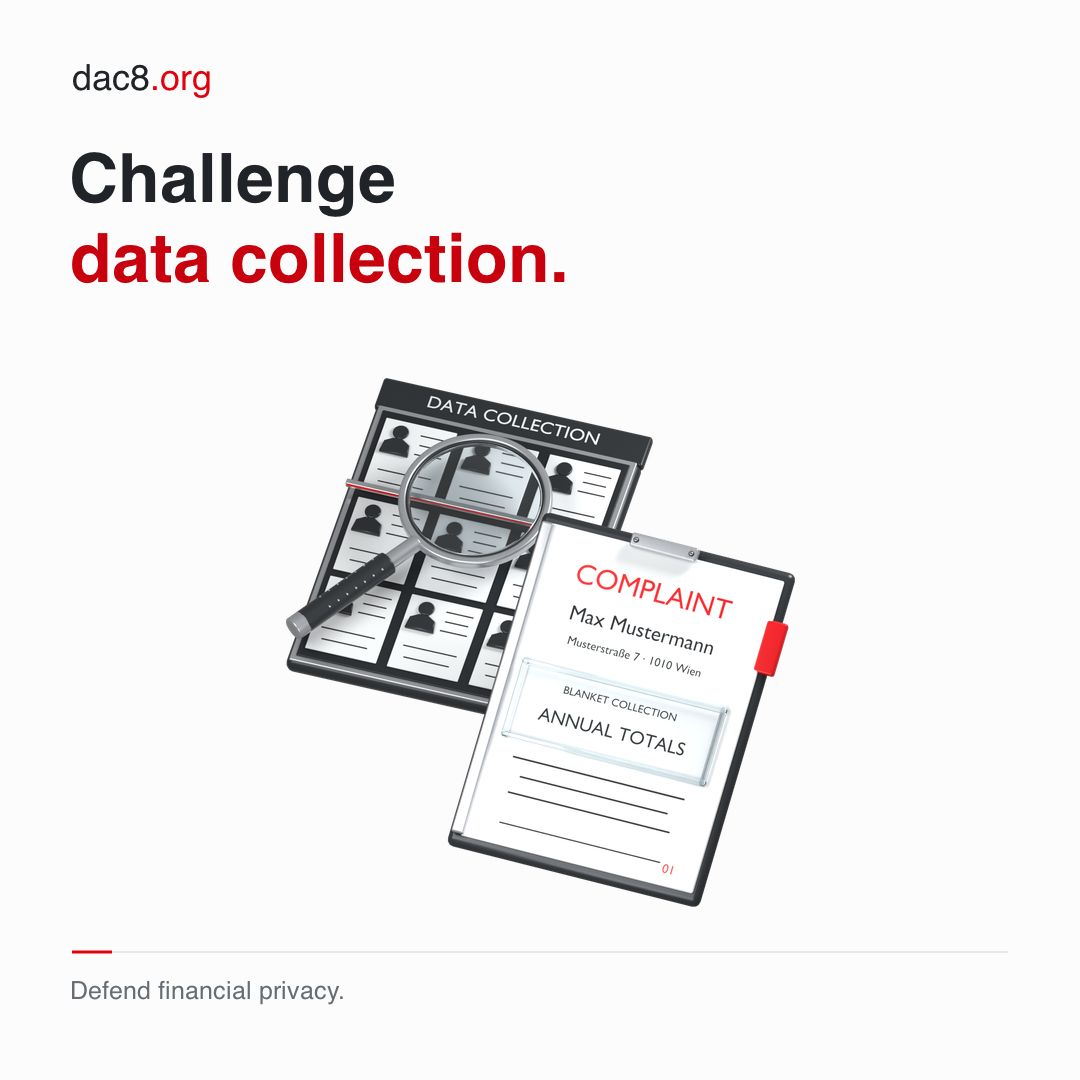
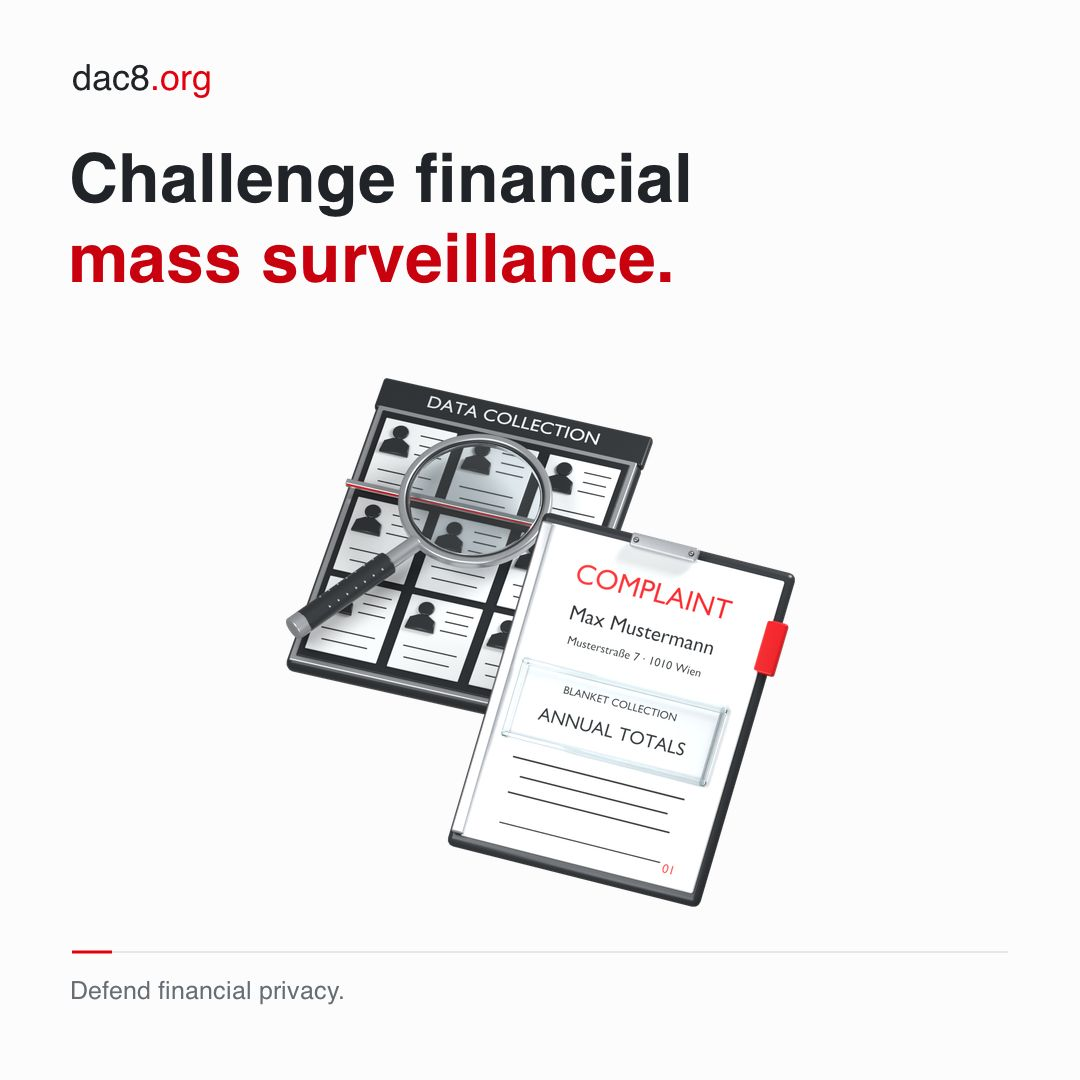
Keep the strongest share graphics and frame them as mass surveillance
Ten graphics diluted the ones that land. The account, processing and
report scenes explained mechanics rather than the danger, and the case
graphic used the briefcase illustration that does not read well.

The share kit keeps seven: the yearly file as the opener, now stating
plainly that recording every customer without suspicion is financial
mass surveillance, then the leak, the merged profile, the ranking, the
attack at home, the challenge and the call to act. The challenge now
reads "Finanzielle Massenüberwachung anfechten", and the call to act and
the participation hero show what donations pay for instead of the
briefcase, which is no longer used anywhere.

Changed region(s): [[0.0611, 0.2139, 0.6417, 0.275], [0.3667, 0.1222, 0.6417, 0.1833]]

diff --git a/src/data/share.ts b/src/data/share.ts
@@ -4,11 +4,13 @@ type Text = Record<Language, string>
 
 // Ready-made social graphics in the artwork lab's share-kit layout
 // (knowledge/share-kit/{de,en}/scene-*/{square,story}.png). They follow the
-// home page story and the legal route. The squares are exported as JPEG to
-// public/share/. The stories are exported to src/assets/share/ and get `text`
-// (and an optional `note`) set into the free space at build time
+// home page story and the legal route, kept to the scenes that work on their
+// own. The squares are exported as JPEG to public/share/. The stories are
+// exported to src/assets/share/ and get `text` (and an optional `note`) set
+// into the free space at build time
 // (src/pages/share/[language]/[scene]-story.jpg.ts), so a story works as a
-// post on its own. Titles match the home page scenes; change both together.
+// post on its own. Titles of story scenes match the home page; change both
+// together.
 // A story gets a few seconds of attention: the title carries the point, the
 // text adds one concrete fact in one or two short sentences.
 export const shareScenes: {
@@ -18,47 +20,14 @@ export const shareScenes: {
   note?: Text
 }[] = [
   {
-    id: "scene-01-customer",
-    title: {
-      de: "Dein Konto wird zur Akte.",
-      en: "Your account becomes a file.",
-    },
-    text: {
-      de: "Seit 2026 hält deine Börse jedes Jahr fürs Finanzamt fest, wer du bist und wie viel du kaufst, verkaufst und tauschst.",
-      en: "Since 2026, your exchange has recorded every year for the tax office who you are and how much you buy, sell and swap.",
-    },
-  },
-  {
-    id: "scene-02-processing",
-    title: {
-      de: "Alle erfasst. Ohne Verdacht.",
-      en: "Everyone recorded. Without suspicion.",
-    },
-    text: {
-      de: "Aufbereitet werden die Daten aller Kunden, auch wenn sie nie gemeldet werden. Österreich geht damit über die EU hinaus.",
-      en: "Data on every customer is prepared, even if it is never reported. Austria goes further than the EU requires.",
-    },
-  },
-  {
-    id: "scene-03-report",
-    title: {
-      de: "Jeder Kauf. Jeder Tausch. Gezählt fürs Finanzamt.",
-      en: "Every purchase. Every swap. Counted for the tax office.",
-    },
-    text: {
-      de: "Name, Anschrift, Steuernummer und für jeden Kryptowert, wie viel du gekauft, verkauft, getauscht und übertragen hast.",
-      en: "Name, address, tax number and, for each crypto-asset, how much you bought, sold, swapped and transferred.",
-    },
-  },
-  {
     id: "scene-04-retention",
     title: {
       de: "Jedes Jahr mehr über dich.",
       en: "More about you. Every year.",
     },
     text: {
-      de: "Jedes Jahr kommt eine Meldung dazu. Der Anbieter hebt jede zehn Jahre auf, neben deinem Ausweis und deinen Wallet-Adressen.",
-      en: "Every year adds a report. Your provider keeps each one for ten years, next to your ID and your wallet addresses.",
+      de: "Seit 2026 hält deine Börse jedes Jahr fürs Finanzamt fest, wer du bist und was du kaufst, verkaufst und tauschst. Bei allen Kunden, ohne Verdacht: finanzielle Massenüberwachung.",
+      en: "Since 2026, your exchange has recorded every year for the tax office who you are and what you buy, sell and swap. For every customer, without suspicion: financial mass surveillance.",
     },
   },
   {
@@ -110,7 +79,10 @@ export const shareScenes: {
     // Restates the procedural status in src/data/campaign.ts; update it
     // together with that status.
     id: "scene-07-route",
-    title: { de: "Datensammlung anfechten.", en: "Challenge data collection." },
+    title: {
+      de: "Finanzielle Massenüberwachung anfechten.",
+      en: "Challenge financial mass surveillance.",
+    },
     text: {
       de: "Wir bereiten ein Verfahren gegen die anlasslose Erfassung vor. Unser Ziel: die Frage bis vor den Europäischen Gerichtshof bringen.",
       en: "We are preparing proceedings against recording everyone without suspicion. Our aim: take the question all the way to the EU Court of Justice.",

diff --git a/src/data/artwork.ts b/src/data/artwork.ts
@@ -5,8 +5,6 @@ import accountToRecord from "@/assets/artwork/account-to-record.webp"
 import accountToRecordEn from "@/assets/artwork/account-to-record-en.webp"
 import collectionReview from "@/assets/artwork/collection-review.webp"
 import collectionReviewEn from "@/assets/artwork/collection-review-en.webp"
-import collectiveDefense from "@/assets/artwork/collective-defense.webp"
-import collectiveDefenseEn from "@/assets/artwork/collective-defense-en.webp"
 import dataHack from "@/assets/artwork/data-hack.webp"
 import dataHackEn from "@/assets/artwork/data-hack-en.webp"
 import financeTheCase from "@/assets/artwork/finance-the-case.webp"
@@ -160,15 +158,6 @@ export const artwork = {
       alt: "Illustration: a magnifying glass over a card index labelled data collection, full of personal record cards. In front, a complaint by Max Mustermann against the blanket collection of annual totals.",
       caption:
         "Our planned complaint targets the blanket collection of all customers’ data.",
-    },
-  },
-  collectiveDefense: {
-    image: { de: collectiveDefense, en: collectiveDefenseEn },
-    de: {
-      alt: "Illustration: Ein Koffer mit der Aufschrift Privat schützt die Akte von Max Mustermann und eine Beschwerde. Sechs Personensymbole halten ihn von außen zusammen.",
-    },
-    en: {
-      alt: "Illustration: a case marked private protects Max Mustermann’s file and a complaint. Six person icons hold it together from the outside.",
     },
   },
   financeTheCase: {

diff --git a/src/pages/og/[language]/[page].png.ts b/src/pages/og/[language]/[page].png.ts
@@ -17,8 +17,8 @@ const artwork: Partial<Record<Page, Record<Language, string>>> = {
     en: "collection-review-en.webp",
   },
   participate: {
-    de: "collective-defense.webp",
-    en: "collective-defense-en.webp",
+    de: "finance-the-case.webp",
+    en: "finance-the-case-en.webp",
   },
 }
 
